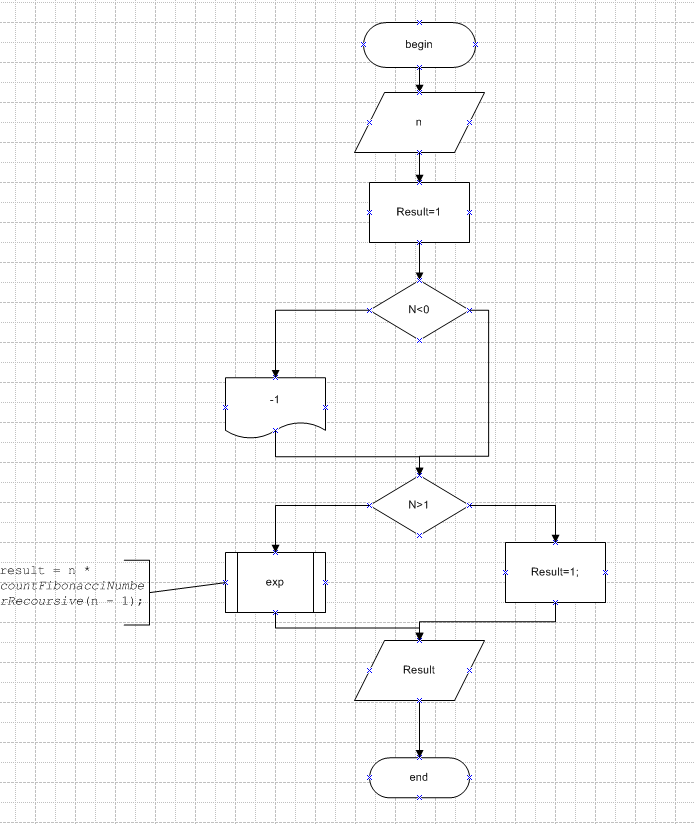
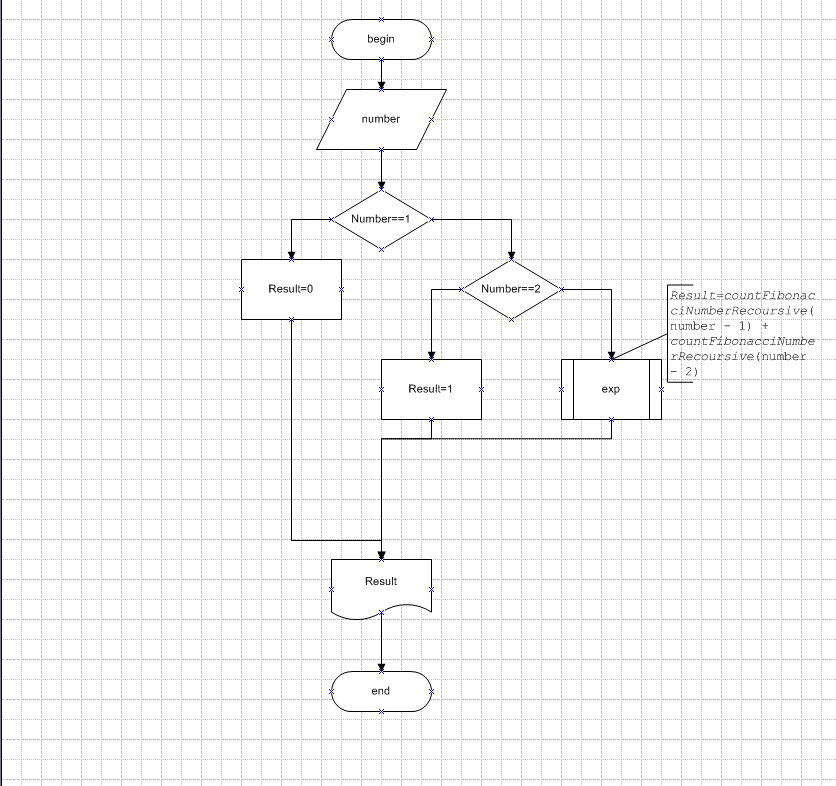
reworked 4th exc. Got rid of view in a model. Added iterative functions and schemes

Changed region(s): [[0.0, 0.0, 1.0, 1.0]]

diff --git a/fourth/src/by/harshunou/fourth/model/FibonacciNumber.java b/fourth/src/by/harshunou/fourth/model/FibonacciNumber.java
@@ -3,16 +3,30 @@ package by.harshunou.fourth.model;
 import static java.lang.Math.abs;
 
 public class FibonacciNumber {
-    public static int countFibonacciNumberRecoursive(int n) {
-        int result = 1;
-        if (n < 0) {
-            return -1;
+    public static int countFibonacciNumberRecoursive(int number) {
+        if (number == 1) {
+            return 0;
         }
-        if (n > 1) {
-            result = n * countFibonacciNumberRecoursive(n - 1);
-        } else if (n == 0) {
-            result = 1;
+        if (number == 2) {
+            return 1;
         }
-        return result;
+        return countFibonacciNumberRecoursive(number - 1) + countFibonacciNumberRecoursive(number - 2);
+    }
+
+    public static int fibonacciIterative(int number) {
+        if (number == 1) {
+            return 0;
+        }
+        if (number == 2) {
+            return 1;
+        }
+        int fibonacci = 1;
+        int previousFibonacci = 1;
+        for (int i = 3; i < number; i++) {
+            int temp = fibonacci;
+            fibonacci += previousFibonacci;
+            previousFibonacci = temp;
+        }
+        return fibonacci;
     }
 }

diff --git a/fourth/src/by/harshunou/fourth/controller/Main.java b/fourth/src/by/harshunou/fourth/controller/Main.java
@@ -6,13 +6,18 @@ import by.harshunou.fourth.view.Printer;
 public class Main {
 
     public static void main(String[] args) {
-        HanoiTower.moveDisks(3, 'A', 'B', 'C');
+        Printer.print(HanoiTower.moveDisks(3, 'A', 'B', 'C'));
         Printer.print(FibonacciNumber.countFibonacciNumberRecoursive(7));
-        Printer.print(FibonacciNumber.countFibonacciNumberRecoursive(-2));
+        Printer.print(FibonacciNumber.fibonacciIterative(7));
         Printer.print(SumOfDigits.countDigitsSum(543));
+        Printer.print(SumOfDigits.countDigitsSumIterative(543));
         Printer.print(EqualsChecker.checkEquality(543,12));
+        Printer.print(EqualsChecker.checkEqualityIterative(543,12));
         Printer.print(EqualsChecker.checkEquality(543,10));
+        Printer.print(EqualsChecker.checkEqualityIterative(543,10));
         Printer.print(PowerCounter.countPower(3,3));
         Printer.print(PowerCounter.countPower(3,-3));
+        Printer.print(PowerCounter.countPowerIterative(3,3));
+        Printer.print(PowerCounter.countPowerIterative(3,-3));
     }
 }

diff --git a/fourth/src/by/harshunou/fourth/model/PowerCounter.java b/fourth/src/by/harshunou/fourth/model/PowerCounter.java
@@ -4,12 +4,30 @@ public class PowerCounter {
     public static double countPower(double number, int power) {
         double result = 1;
         if (power == 0) {
-            result = 1;
+            return 1;
         }
         if (power < 0) {
             result = 1.0 / countPower(number, -power);
-        } else if (power > 0) {
+        } else {
             result = number * countPower(number, power - 1);
+        }
+        return result;
+    }
+
+    public static double countPowerIterative(double number, int power) {
+        double result = 1;
+        if (power == 0) {
+            return 1;
+        }
+        if (power > 0) {
+            for (int i = 0; i < power; i++) {
+                result *= number;
+            }
+        } else {
+            power = -power;
+            for (int i = 0; i < power; i++) {
+                result /= number;
+            }
         }
         return result;
     }

diff --git a/fourth/src/by/harshunou/fourth/model/EqualsChecker.java b/fourth/src/by/harshunou/fourth/model/EqualsChecker.java
@@ -1,8 +1,21 @@
 package by.harshunou.fourth.model;
 
 public class EqualsChecker {
-    public static boolean checkEquality(int numberToDivide,int number)
-    {
-        return SumOfDigits.countDigitsSum(numberToDivide)==number;
+    public static boolean checkEquality(int numberToDivide, int number) {
+        if (numberToDivide != 0) {
+            number -= numberToDivide % 10;
+            numberToDivide /= 10;
+            return checkEquality(numberToDivide, number);
+        } else {
+            return number == 0;
+        }
+    }
+
+    public static boolean checkEqualityIterative(int numberToDivide, int number) {
+        while (numberToDivide != 0) {
+            number -= numberToDivide % 10;
+            numberToDivide /= 10;
+        }
+        return number == 0;
     }
 }

diff --git a/fourth/src/by/harshunou/fourth/model/HanoiTower.java b/fourth/src/by/harshunou/fourth/model/HanoiTower.java
@@ -3,11 +3,14 @@ package by.harshunou.fourth.model;
 import by.harshunou.fourth.view.Printer;
 
 public class HanoiTower {
-    public static void moveDisks(int count, char a, char b, char c) {
+    private static String resultString = "";
+    public static String moveDisks(int count, char a, char b, char c) {
+
         if (count > 0) {
             moveDisks(count - 1, a, b, c);
-            Printer.print("Moving from " + a + " to " + b);
+            resultString += "Moving from " + a + " to " + b+" ";
             moveDisks(count - 1, b, c, a);
         }
+        return resultString;
     }
 }

diff --git a/fourth/src/by/harshunou/fourth/model/SumOfDigits.java b/fourth/src/by/harshunou/fourth/model/SumOfDigits.java
@@ -8,4 +8,12 @@ public class SumOfDigits {
         }
         return sum;
     }
+    public static int countDigitsSumIterative(int number){
+        int sum=0;
+        while (number>0){
+            sum+=(number%10);
+            number/=10;
+        }
+        return sum;
+    }
 }
